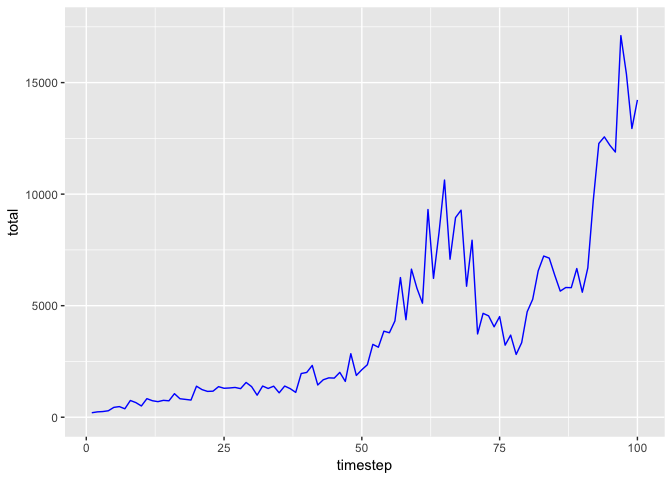
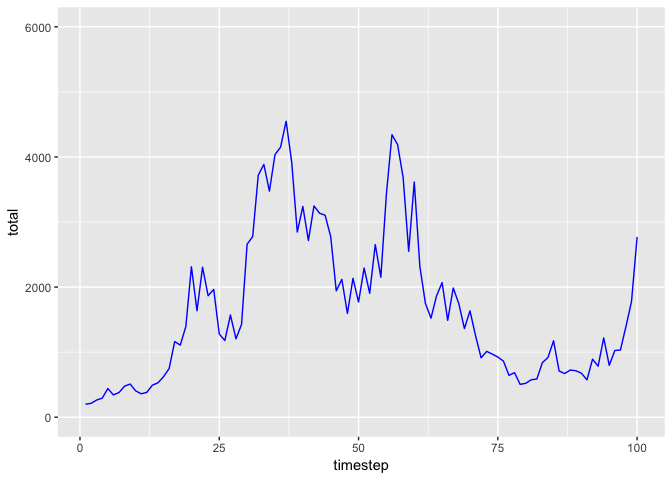
Temporarily disabling demographic stochasticity, as the results are currently unreliable.

diff --git a/README.md b/README.md
@@ -36,28 +36,28 @@ Here are plots of blue- and red-noise populations generated by the
 
 ``` r
 library(colorednoise)
-set.seed(7920)
+set.seed(7927)
 pop_blue <- matrix_model(
   data = list(
     mean = matrix(c(0.6687097, 0.2480645, 0.6687097, 0.4335484), ncol=2),
     sd = matrix(c(0.34437133, 0.08251947, 0.34437133, 0.10898160), ncol=2),
     autocorrelation = matrix(rep(-0.4, 4), ncol=2)
-  ), timesteps = 100, initialPop = c(100, 100), demoStochasticity = T
+  ), timesteps = 100, initialPop = c(100, 100)
 )
 pop_red <- matrix_model(
   data = list(
     mean = matrix(c(0.6687097, 0.2480645, 0.6687097, 0.4335484), ncol=2),
     sd = matrix(c(0.34437133, 0.08251947, 0.34437133, 0.10898160), ncol=2),
     autocorrelation = matrix(rep(0.4, 4), ncol=2)
-  ), timesteps = 100, initialPop = c(100, 100), demoStochasticity = T
+  ), timesteps = 100, initialPop = c(100, 100)
 )
-ggplot(pop_blue, aes(x = timestep, y = total)) + geom_line(col="blue") + ylim(0, 17500)
+ggplot(pop_blue, aes(x = timestep, y = total)) + geom_line(col="blue") + ylim(0, 6000)
 ```
 
 ![](man/figures/README-example-1.png)
 
 ``` r
-ggplot(pop_red, aes(x = timestep, y = total)) + geom_line(col="red") + ylim(0, 17500)
+ggplot(pop_red, aes(x = timestep, y = total)) + geom_line(col="red") + ylim(0, 6000)
 ```
 
 ![](man/figures/README-example-2.png)
